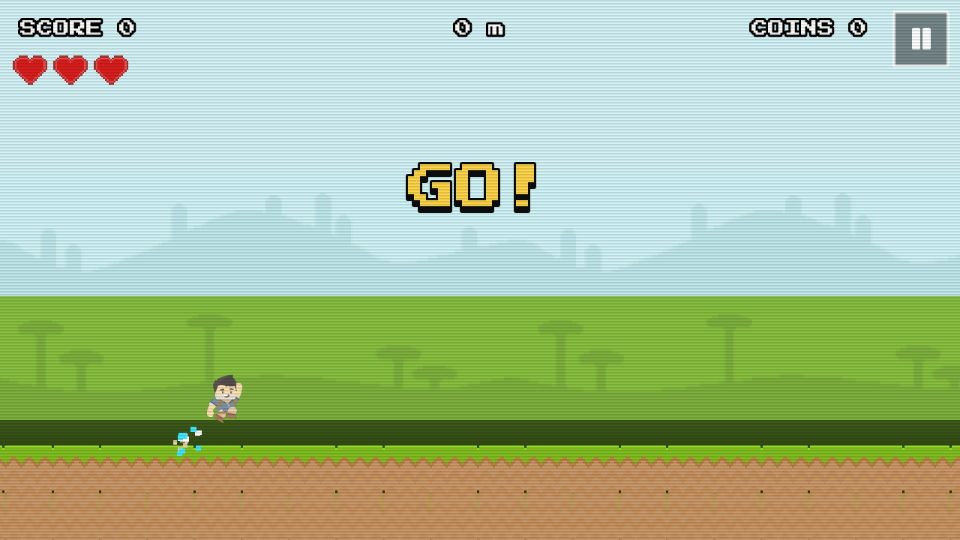
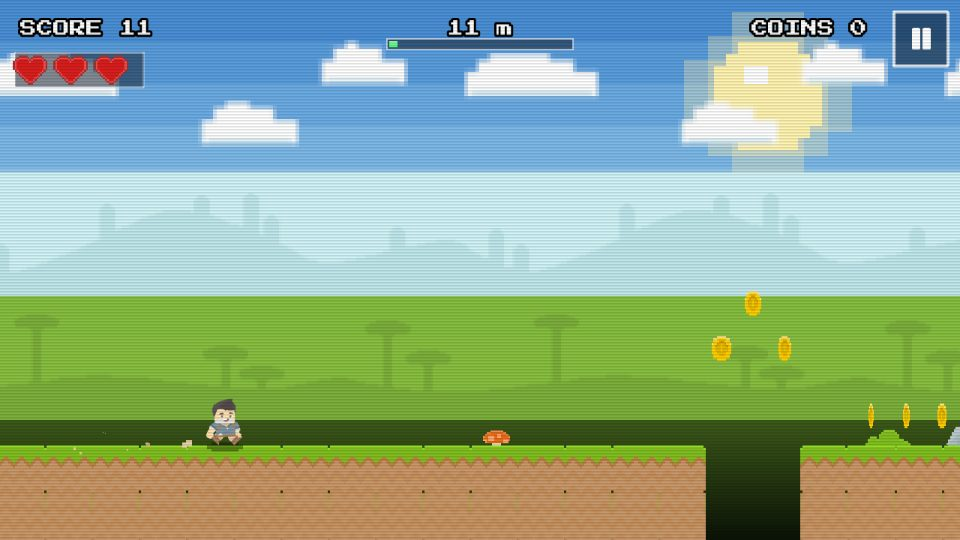
Pixel Runner: pixel sky, scenery, checkpoint flags, gems and motion
- a banded pixel sky with a sun and drifting pixel clouds behind the
  two hill layers
- grass tufts, rocks and mushrooms on the ground segments
- a checkpoint flag on the ground every 250 m that waves and bursts
  into confetti as the runner passes; a bar under the distance shows
  the way to the next one
- rare gems at the top of coin arcs, worth five coins (+50)
- dust kicked up while running, stretch on take-off and squash on
  landing, a shadow on the ground under the runner
- speed lines streak past once the run gets fast
- a panel behind the hearts; menu coins clear of the how-to text
- version 1.1.0

Claude-Session: https://claude.ai/code/session_0175vXZr811A8hQZq6oHnsLr

diff --git a/games/pixel-runner/PlayScene.ts b/games/pixel-runner/PlayScene.ts
@@ -1,6 +1,37 @@
 import Phaser from 'phaser';
 import { ArcadeScene, CHARACTER_FRAME, burst, shake, flash, popup, t, txt, rng } from '@core';
 
+/** A banded pixel sky with a sun (drawn small, shown 8x for chunky pixels), pixel clouds and a ground shadow. */
+export function makeSky(scene: Phaser.Scene): void {
+  const tex = (key: string, w: number, h: number, draw: (c: CanvasRenderingContext2D) => void) => {
+    if (scene.textures.exists(key)) return;
+    const ct = scene.textures.createCanvas(key, w, h);
+    if (!ct) return;
+    draw(ct.getContext());
+    ct.refresh();
+  };
+  tex('pr-sky', 160, 90, (c) => {
+    const bands = ['#4a8fd6', '#5a9ddd', '#6aabe3', '#7cb9e8', '#8fc6ec', '#a3d2ef', '#b7ddf1', '#c9e7f3', '#d6eef4'];
+    bands.forEach((col, i) => { c.fillStyle = col; c.fillRect(0, i * 7, 160, 7); });
+    c.fillStyle = '#d6eef4'; c.fillRect(0, 63, 160, 27);
+    // the sun with a ring of light
+    c.fillStyle = 'rgba(255,240,180,0.35)'; c.fillRect(118, 6, 20, 20); c.fillRect(114, 10, 28, 12); c.fillRect(122, 2, 12, 28);
+    c.fillStyle = '#fff3b0'; c.fillRect(121, 9, 14, 14); c.fillRect(119, 11, 18, 10); c.fillRect(123, 7, 10, 18);
+    c.fillStyle = '#ffffff'; c.fillRect(124, 11, 4, 3);
+  });
+  tex('pr-clouds', 80, 25, (c) => {
+    const cloud = (x: number, y: number, w: number) => {
+      c.fillStyle = '#ffffff';
+      c.fillRect(x, y + 3, w, 4); c.fillRect(x + 2, y + 1, w - 6, 3); c.fillRect(x + 4, y, w - 12, 2);
+      c.fillStyle = '#dceef6'; c.fillRect(x + 1, y + 6, w - 2, 1);
+    };
+    cloud(4, 4, 22); cloud(40, 12, 16); cloud(60, 2, 14);
+  });
+  tex('pr-shadow', 16, 4, (c) => {
+    c.fillStyle = 'rgba(0,0,0,1)'; c.fillRect(2, 0, 12, 4); c.fillRect(0, 1, 16, 2);
+  });
+}
+
 /** pixel-platformer tilemap_packed frames (21 px tiles, 30 per row). */
 export const F = {
   run: [19, 20], jump: 21, hurt: 22,
@@ -11,6 +42,9 @@ export const F = {
   bee: [354, 355], beeDead: 356,
   spike: 70,
   heart: 373, heartEmpty: 375,
+  tuft: 46, rock: 48, shroom: 108, star: 106,
+  flag: [311, 341],
+  gems: [285, 286, 376, 377, 378],
 };
 const S = 3, T = 21 * S;                     // scale and tile size in world px
 const PX = 300;                              // runner's screen x
@@ -24,7 +58,7 @@ const SLIME_HW = 26;
 const TOPS = [720 - 2 * T, 720 - 3 * T, 720 - 4 * T];
 
 interface Seg { x: number; w: number; top: number; float: boolean; objs: Phaser.GameObjects.GameObject[] }
-interface Coin { img: Phaser.GameObjects.Image; x: number; y: number }
+interface Coin { img: Phaser.GameObjects.Image; x: number; y: number; gem?: boolean }
 interface Enemy { kind: 'slime' | 'bee' | 'spike'; img: Phaser.GameObjects.Sprite; x: number; y: number; vx: number; baseY: number; t: number; alive: boolean; minX: number; maxX: number }
 
 export class PlayScene extends ArcadeScene {
@@ -54,6 +88,13 @@ export class PlayScene extends ArcadeScene {
   private animT = 0;
   private dead = false;
   private stompChain = 0;
+  private flags: { x: number; img: Phaser.GameObjects.Sprite; pole: Phaser.GameObjects.Rectangle; m: number; done: boolean }[] = [];
+  private nextFlag = 250;
+  private dustT = 0;
+  private shadow!: Phaser.GameObjects.Image;
+  private lines: Phaser.GameObjects.Rectangle[] = [];
+  private clouds!: Phaser.GameObjects.TileSprite;
+  private barG!: Phaser.GameObjects.Graphics;
 
   createGame(): void {
     const { width, height } = this.scale;
@@ -61,9 +102,13 @@ export class PlayScene extends ArcadeScene {
     this.scroll = 0; this.speed = 380; this.vy = 0; this.grounded = true; this.jumps = 0; this.coyote = 0; this.buffer = 0;
     this.holding = false; this.invuln = 0; this.lives = 3; this.coinCount = 0; this.meters = 0; this.nextMilestone = 250;
     this.genX = 0; this.lastTop = TOPS[0]; this.animT = 0; this.dead = false; this.stompChain = 0;
+    this.flags = []; this.nextFlag = 250; this.dustT = 0; this.lines = [];
+    makeSky(this);
     this.cameras.main.setScroll(0, 0);
 
-    this.add.rectangle(0, 0, width, height, 0xd3f3f7).setOrigin(0).setScrollFactor(0).setDepth(-10);
+    // a banded pixel sky with a sun, drifting clouds, then the two hill layers
+    this.add.image(0, 0, 'pr-sky').setOrigin(0).setScale(8).setScrollFactor(0).setDepth(-12);
+    this.clouds = this.add.tileSprite(0, 40, width, 200, 'pr-clouds').setOrigin(0).setTileScale(8).setScrollFactor(0).setDepth(-11);
     this.bgFar = this.add.tileSprite(0, 230, width, 189, 'ppbg', 0).setOrigin(0).setTileScale(3).setScrollFactor(0).setDepth(-9);
     this.bgNear = this.add.tileSprite(0, 395, width, 189, 'ppbg', 1).setOrigin(0).setTileScale(3).setScrollFactor(0).setDepth(-8).setAlpha(0.85);
     // dark pit below the horizon so gaps read as holes
@@ -76,8 +121,13 @@ export class PlayScene extends ArcadeScene {
     while (this.genX < width * 2) this.generate();
 
     this.py = TOPS[0] - HH;
+    this.shadow = this.add.image(PX, TOPS[0], 'pr-shadow').setScale(3).setDepth(19).setAlpha(0.35);
     this.player = this.add.sprite(PX, this.py, 'pc-walk1').setScale(HERO_SCALE).setDepth(20);
+    // speed lines that streak past once the run gets fast
+    for (let i = 0; i < 10; i++) this.lines.push(this.add.rectangle(0, 0, 60, 3, 0xffffff, 0.5).setOrigin(0, 0.5).setScrollFactor(0).setDepth(30).setVisible(false));
+    this.barG = this.add.graphics().setScrollFactor(0).setDepth(9000);
 
+    this.add.rectangle(20, 70, 172, 46, 0x1d2a3a, 0.55).setOrigin(0).setScrollFactor(0).setDepth(8999).setStrokeStyle(3, 0xffffff, 0.35);
     for (let i = 0; i < 3; i++) this.hearts.push(this.add.image(40 + i * 54, 92, 'pp', F.heart).setScale(2.4).setScrollFactor(0).setDepth(9000));
     this.updateHud();
 
@@ -114,6 +164,22 @@ export class PlayScene extends ArcadeScene {
         objs.push(this.add.image(x + i * T, top, 'pp', f).setOrigin(0).setScale(S).setDepth(5));
       }
       objs.push(this.add.tileSprite(x, top + T, tiles * T, 720 - top, 'pp', F.fill).setOrigin(0).setTileScale(S).setDepth(5));
+      // grass tufts, rocks and mushrooms standing on the top tiles
+      for (let i = 1; i < tiles - 1; i++) {
+        if (!rng.chance(0.28)) continue;
+        const f = rng.pick([F.tuft, F.tuft, F.tuft, F.rock, F.shroom]);
+        objs.push(this.add.image(x + i * T + rng.int(4, T - 4), top + 6, 'pp', f).setOrigin(0.5, 1).setScale(S * (f === F.tuft ? 1 : 0.8)).setDepth(4));
+      }
+      // a checkpoint flag on the ground every 250 m
+      const m0 = x / T, m1 = (x + tiles * T) / T;
+      if (this.nextFlag > m0 + 1 && this.nextFlag < m1 - 1) {
+        const fx = this.nextFlag * T;
+        const pole = this.add.rectangle(fx - 22, top, 9, T * 1.6, 0xa9b4b8).setOrigin(0.5, 1).setDepth(6).setStrokeStyle(3, 0x6b7478);
+        const flag = this.add.sprite(fx, top - T * 1.6 + 30, 'pp', F.flag[0]).setOrigin(0.5, 0.5).setScale(S).setDepth(6);
+        this.flags.push({ x: fx, img: flag, pole, m: this.nextFlag, done: false });
+        objs.push(pole, flag);
+        this.nextFlag += 250;
+      }
     }
     const s: Seg = { x, w: tiles * T, top, float, objs };
     this.segs.push(s);
@@ -135,10 +201,10 @@ export class PlayScene extends ArcadeScene {
     // coin arc over the gap
     const gapStart = this.genX;
     if (rng.chance(0.6)) {
-      const n = gap + 1;
+      const n = gap + 1, gemAt = rng.chance(0.18) ? Math.floor(n / 2) : -1;
       for (let i = 0; i < n; i++) {
         const k = (i + 0.5) / n;
-        this.addCoin(gapStart + k * gap * T, Math.min(this.lastTop, top) - 70 - Math.sin(k * Math.PI) * 120);
+        this.addCoin(gapStart + k * gap * T, Math.min(this.lastTop, top) - 70 - Math.sin(k * Math.PI) * 120, i === gemAt);
       }
     }
     // long gaps get a floating platform in the middle
@@ -176,7 +242,14 @@ export class PlayScene extends ArcadeScene {
     this.genX += len * T;
   }
 
-  private addCoin(x: number, y: number): void {
+  private addCoin(x: number, y: number, gem = false): void {
+    if (gem) {
+      // a rare gem at the top of an arc: worth five coins
+      const img = this.add.image(x, y, 'pp', rng.pick(F.gems)).setScale(S).setDepth(8);
+      this.tweens.add({ targets: img, y: y - 8, duration: 500, yoyo: true, repeat: -1, ease: 'Sine.easeInOut' });
+      this.coins.push({ img, x, y, gem: true });
+      return;
+    }
     const img = this.add.image(x, y, 'pp', F.coin).setScale(S).setDepth(8);
     this.tweens.add({ targets: img, scaleX: 0.6, duration: 260, yoyo: true, repeat: -1, delay: (x % 500) });
     this.coins.push({ img, x, y });
@@ -213,6 +286,10 @@ export class PlayScene extends ArcadeScene {
     this.jumps = double ? 2 : 1;
     this.grounded = false; this.coyote = 0; this.buffer = 0;
     this.sfx(double ? 'jump2' : 'jump', { volume: 0.4 });
+    this.tweens.killTweensOf(this.player);
+    this.player.setAngle(0);
+    this.player.setScale(HERO_SCALE * 0.85, HERO_SCALE * 1.18);
+    this.tweens.add({ targets: this.player, scaleX: HERO_SCALE, scaleY: HERO_SCALE, duration: 220, ease: 'Quad.easeOut' });
     const wx = this.scroll + PX;
     if (double) {
       burst(this, wx, this.py + HH, [0xffffff, 0x3ee6ff], 12, 200);
@@ -323,7 +400,9 @@ export class PlayScene extends ArcadeScene {
     if (this.grounded) {
       if (!wasGrounded) {
         this.sfx(rng.pick(['land', 'land2']), { volume: 0.55 });
-        burst(this, wx - 12, this.py + HH, 0xe6d3a3, 5, 100);
+        burst(this, wx - 12, this.py + HH, 0xe6d3a3, 8, 120);
+        this.player.setScale(HERO_SCALE * 1.2, HERO_SCALE * 0.8);
+        this.tweens.add({ targets: this.player, scaleX: HERO_SCALE, scaleY: HERO_SCALE, duration: 180, ease: 'Back.easeOut' });
         this.stompChain = 0;
         if (this.buffer > 0) this.jump(false);
       }
@@ -340,13 +419,50 @@ export class PlayScene extends ArcadeScene {
     this.cameras.main.scrollX = this.scroll;
     this.bgFar.tilePositionX = this.scroll * 0.05;
     this.bgNear.tilePositionX = this.scroll * 0.12;
+    this.clouds.tilePositionX += dt * 2 + dx * 0.004;
+    // shadow on the ground under the runner
+    const under = this.segs.find((sg) => wx >= sg.x && wx <= sg.x + sg.w && sg.top >= this.py + HH - 2);
+    if (under) {
+      const h = under.top - (this.py + HH);
+      this.shadow.setVisible(true).setPosition(wx, under.top + 2).setScale(3 * Math.max(0.4, 1 - h / 400), 3).setAlpha(0.35 * Math.max(0.2, 1 - h / 400));
+    } else this.shadow.setVisible(false);
+    // kicked-up dust while running
+    this.dustT -= dt;
+    if (this.grounded && this.dustT <= 0) { this.dustT = 0.11; burst(this, wx - 14, this.py + HH - 2, [0xe6d3a3, 0xc9b27a], 2, 70); }
+    // speed lines once the run is fast
+    const fast = Phaser.Math.Clamp((this.speed - 560) / 300, 0, 1);
+    for (const ln of this.lines) {
+      if (fast <= 0) { ln.setVisible(false); continue; }
+      if (!ln.visible || ln.x < -80) ln.setVisible(true).setPosition(width + rng.int(0, 600), rng.int(150, 560)).setSize(rng.int(40, 120), 3);
+      ln.x -= this.speed * 2.2 * dt;
+      ln.setAlpha(0.25 + fast * 0.35);
+    }
+    // checkpoint flags wave, and cheer when passed
+    this.flags = this.flags.filter((fl) => fl.img.active);
+    for (const fl of this.flags) {
+      if (!fl.img.active) continue;
+      fl.img.setFrame(F.flag[Math.floor(this.elapsed * 6) % 2]);
+      if (!fl.done && wx > fl.x) {
+        fl.done = true;
+        burst(this, fl.x, fl.img.y - 30, [0xffd23f, 0x5dff7a, 0xffffff, 0xff4fa3], 24, 320);
+        this.tweens.add({ targets: fl.img, y: fl.img.y - 10, duration: 120, yoyo: true, repeat: 2 });
+      }
+    }
+    // progress to the next milestone (top centre)
+    const prev = this.nextMilestone - 250, k = Phaser.Math.Clamp((this.meters - prev) / 250, 0, 1);
+    this.barG.clear();
+    this.barG.fillStyle(0x1d2a3a, 0.6).fillRect(width / 2 - 124, 52, 248, 14);
+    this.barG.fillStyle(0x5dff7a, 1).fillRect(width / 2 - 121, 55, 242 * k, 8);
+    this.barG.fillStyle(0xffffff, 0.5).fillRect(width / 2 - 121, 55, 242 * k, 2);
+    this.barG.lineStyle(2, 0xffffff, 0.6).strokeRect(width / 2 - 124, 52, 248, 14);
 
     // coins
     for (const c of this.coins) {
       if (!c.img.active) continue;
       if (Math.abs(c.x - wx) < 34 && Math.abs(c.y - this.py) < 46) {
-        this.coinCount++;
-        this.addScore(10);
+        this.coinCount += c.gem ? 5 : 1;
+        this.addScore(c.gem ? 50 : 10);
+        if (c.gem) { popup(this, c.x, c.y - 30, '+50', '#3ee6ff', 22); this.sfx('coin10', { volume: 0.5, rate: 1.2 }); burst(this, c.x, c.y, [0x3ee6ff, 0xffffff, 0xff8ad8], 18, 240); }
         this.sfx('coin', { volume: 0.35, rate: 1 + Math.min(0.5, (this.coinCount % 10) * 0.05) });
         if (this.coinCount % 10 === 0) this.sfx('coin10', { volume: 0.5 });
         burst(this, c.x, c.y, [0xffd23f, 0xffffff], 8, 160);

diff --git a/games/pixel-runner/main.ts b/games/pixel-runner/main.ts
@@ -44,7 +44,7 @@ launch({
     scene.time.addEvent({ delay: 110, loop: true, callback: () => runner.setTexture(++f % 2 ? 'pc-walk2' : 'pc-walk1') });
     scene.tweens.add({ targets: runner, x: width - 140, duration: 5200, yoyo: true, repeat: -1, onYoyo: () => runner.setFlipX(true), onRepeat: () => runner.setFlipX(false) });
     for (let i = 0; i < 5; i++) {
-      const c = scene.add.image(300 + i * 160, height - 140, 'pp', F.coin).setScale(3);
+      const c = scene.add.image(300 + i * 160, height - 110, 'pp', F.coin).setScale(3);
       scene.tweens.add({ targets: c, scaleX: 0.4, duration: 300, yoyo: true, repeat: -1, delay: i * 90 });
     }
   },

diff --git a/platform/arcade-catalog.ts b/platform/arcade-catalog.ts
@@ -795,6 +795,7 @@ export const ARCADE_GAMES: SeedGame[] = [
     tags: ['pixel', 'runner', 'retro'],
     orientation: 'landscape',
     input: ['touch', 'keyboard', 'mouse'],
+    version: '1.1.0',
     addedAt: '2026-10-28',
   }),
   arcadeGame({
